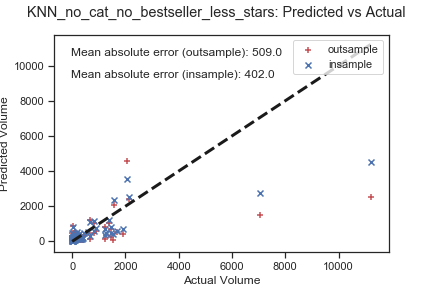
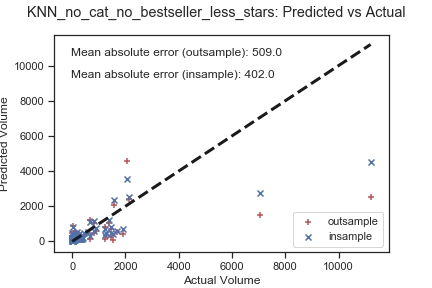
fixed prediction plots, glmnet optimization

Changed region(s): [[0.6921, 0.125, 0.9028, 0.2812], [0.6921, 0.7188, 0.9028, 0.7812], [0.6921, 0.8125, 0.8727, 0.875]]

diff --git a/notebooks/reports/1.0_lm_tuning.py b/notebooks/reports/1.0_lm_tuning.py
@@ -12,6 +12,7 @@ from IPython.core.interactiveshell import InteractiveShell
 
 from sklearn.linear_model import LinearRegression
 from sklearn.linear_model import ElasticNet
+from sklearn.linear_model import ElasticNetCV
 
 from sklearn import preprocessing
 from sklearn.model_selection import cross_val_score
@@ -35,11 +36,28 @@ X = pd.read_csv(X_train_path)
 y = pd.read_csv(y_train_path, index_col=False)
 y = y.iloc[:, 0]
 
+# dropping the best seller rank, because it contains missing values and does not
+# seem to help
+X.drop(columns=["bestseller_rank"], inplace=True)
+
 #%%
 
 # Plotting the volume histogram to see if a transformation could help
 sns.distplot(y, bins=20)
 
+#%%
+# Taking the log of the target makes it much more normally distributed
+# this should lessen the effects of extreme values
+
+sns.distplot(np.log(y).clip(lower=0), bins=20)
+
+#%%
+
+# Lets transform y to log and continue with that
+# We need to apply lower 0 because there are some zero values and these would
+# be -inf if we don't do this
+
+y_log = np.log(y).clip(lower=0)
 
 #%%
 
@@ -48,3 +66,55 @@ sns.distplot(y, bins=20)
 # that combines L1 and L2 regularization. This works as a kind of automatic feature
 # selection
 
+# lets start by optimizing the parameters in crossvalidation. There is a separate
+# function for this package that does this more efficiently
+
+glmnet = ElasticNetCV(cv=70, random_state=seed)
+glmnet.fit(X, y)
+glmnet_best_params = glmnet.get_params()
+
+#%%
+
+# Defining the method for crossvalidation. We crossvalidate each individual row
+crossvalidation = KFold(n_splits=70, shuffle=True, random_state=seed)
+
+# Defining list of scoring methods
+scoring = ["neg_mean_squared_error", "neg_mean_absolute_error"]
+
+#%%
+
+glmnet_model = ElasticNet()
+glmnet_best_params_matching = {
+    key: glmnet_best_params[key]
+    for key in glmnet_model.get_params().keys()
+    if key in glmnet_best_params
+}
+
+# manual tuning so that things work
+glmnet_best_params_matching["precompute"] = False
+
+pipelines = []
+
+pipelines.append(("GLMNET", make_pipeline(ElasticNet(**glmnet_best_params_matching))))
+
+#%%
+
+plot_cv_scores(
+    pipelines=pipelines,
+    X=X,
+    y=y,
+    crossvalidation=crossvalidation,
+    scoring=scoring,
+    file_suffix="optimized",
+)
+
+plot_cv_predictions(
+    pipelines=pipelines,
+    X=X,
+    y=y,
+    crossvalidation=crossvalidation,
+    file_suffix="optimized",
+)
+
+
+#%%

diff --git a/notebooks/reports/1.0_model_exploration.py b/notebooks/reports/1.0_model_exploration.py
@@ -258,14 +258,14 @@ pipelines.append(
 
 #%%
 
-# plot_cv_scores(
-#     pipelines=pipelines,
-#     X=X_no_bestseller,
-#     y=y,
-#     crossvalidation=crossvalidation,
-#     scoring=scoring,
-#     file_suffix="unoptimized",
-# )
+plot_cv_scores(
+    pipelines=pipelines,
+    X=X_no_bestseller,
+    y=y,
+    crossvalidation=crossvalidation,
+    scoring=scoring,
+    file_suffix="unoptimized",
+)
 
 plot_cv_predictions(
     pipelines=pipelines,
@@ -432,7 +432,7 @@ plot_cv_predictions(
 
 # On the basis of this explorations we decide to do the following things
 
-# 1. Dropping futher testing of KNN and SVM models as these perform baddly. Continuing
+# 2. Dropping futher testing of KNN and SVM models as these perform baddly. Continuing
 # to more precise testing with RF and LM
-# 2. We need to use some feature selection algoritm to as dropping features seems to create
+# 3. We need to use some feature selection algoritm to as dropping features seems to create
 # a lot of value
